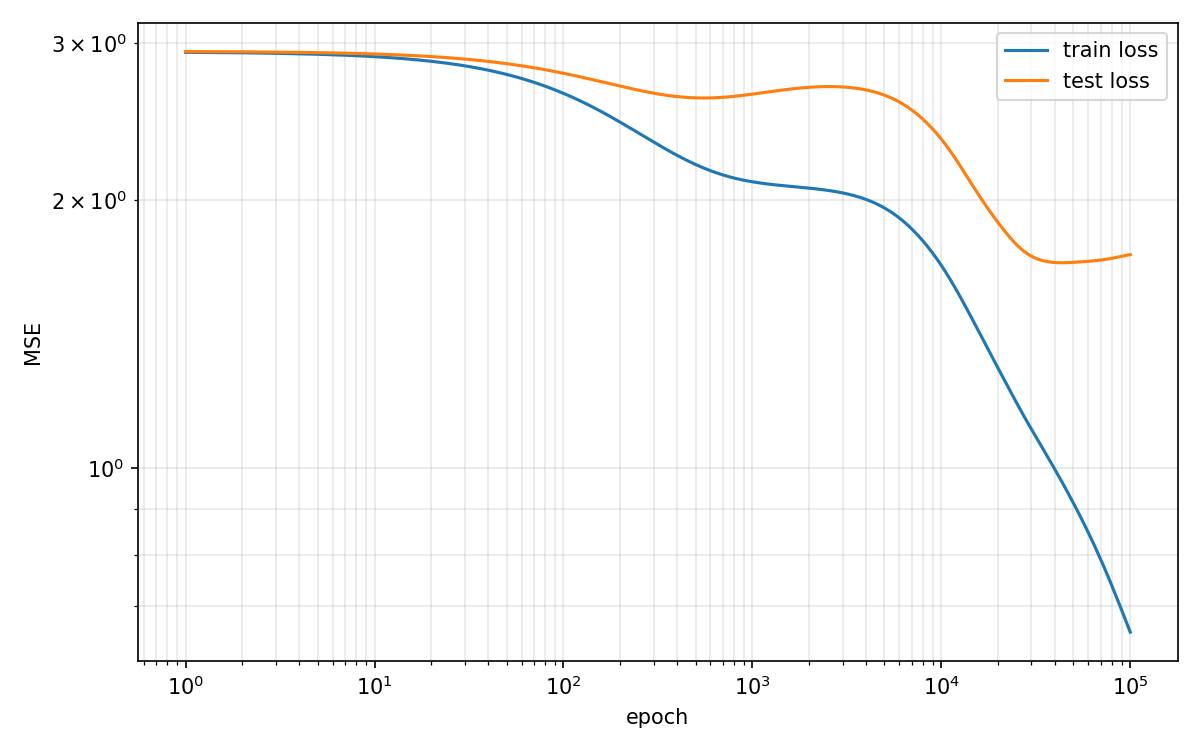
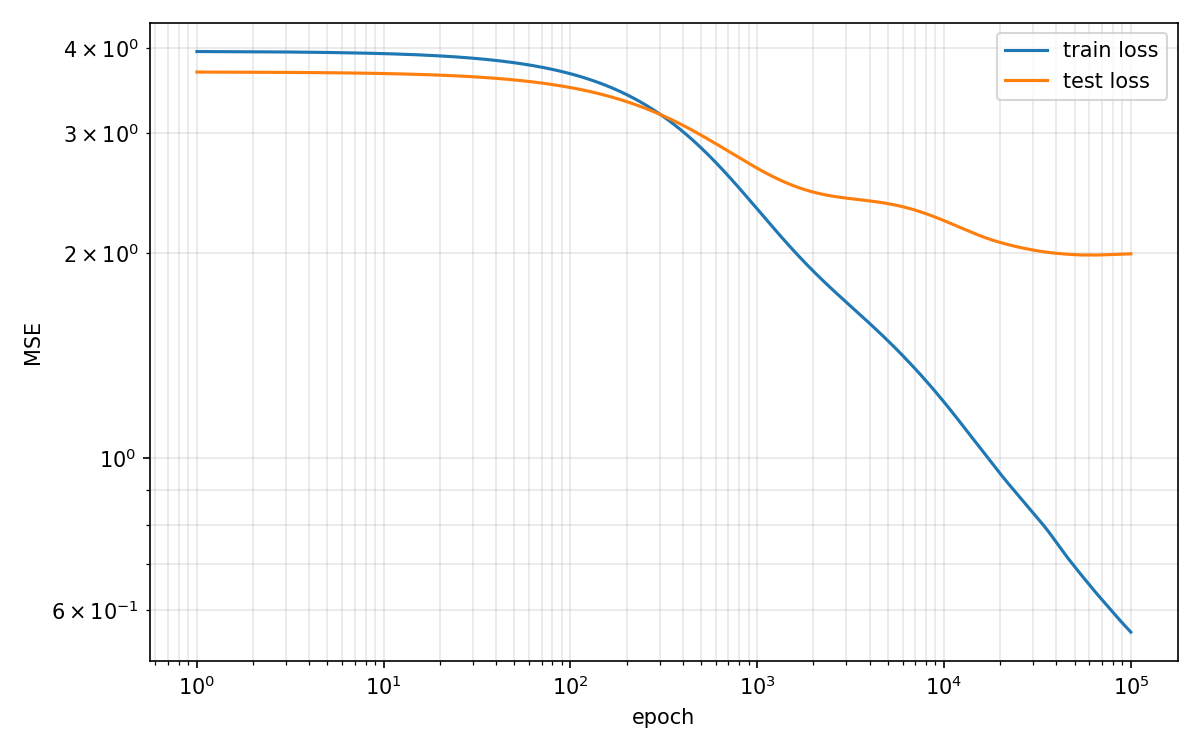
fix normalization problem

diff --git a/simple_commette_machine.py b/simple_commette_machine.py
@@ -57,14 +57,14 @@ class CommitteeStudent(nn.Module):
         self.W = nn.Parameter(torch.empty(n_hidden, d))
         nn.init.normal_(self.W, 0.0, 1.0 / math.sqrt(d))
         with torch.no_grad():
-            self.W /= torch.norm(self.W)
+            self.W /= torch.norm(self.W, dim=1, keepdim=True)
 
     def forward(self, x):
         return self.scale * torch.erf(x @ self.W.T).sum(dim=-1)
 
 
 def ensure_init_weights() -> None:
-    """Sample init once from N(0, 1/sqrt(d)), Frobenius-normalize, cache for all runs."""
+    """Sample init once from N(0, 1/sqrt(d)), per-row unit normalize, cache for all runs."""
     if INIT_WEIGHTS_PATH.exists():
         return
     torch.manual_seed(INIT_SEED)

diff --git a/train.py b/train.py
@@ -36,7 +36,7 @@ class CommitteeStudent(nn.Module):
         self.W = nn.Parameter(torch.empty(n_hidden, d))
         nn.init.normal_(self.W, mean=0.0, std=1.0 / math.sqrt(d))
         with torch.no_grad():
-            self.W.data = self.W.data / torch.norm(self.W)
+            self.W.data /= torch.norm(self.W, dim=1, keepdim=True)
 
     def forward(self, x: torch.Tensor) -> torch.Tensor:
         h = torch.erf(x @ self.W.T)
